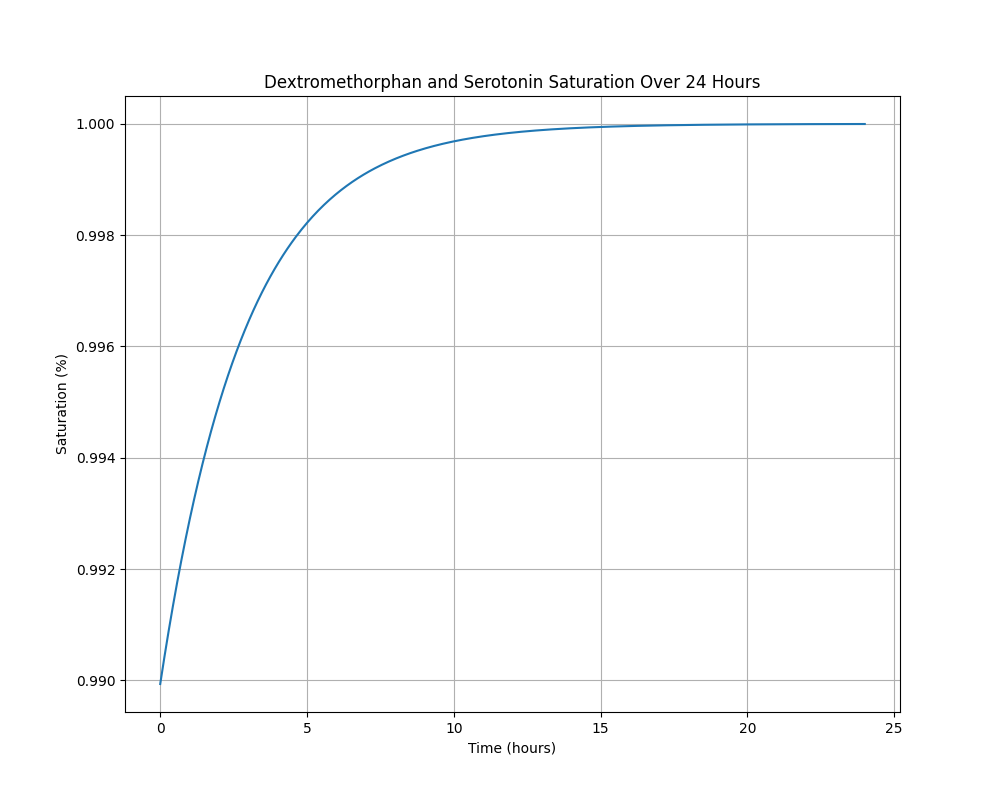
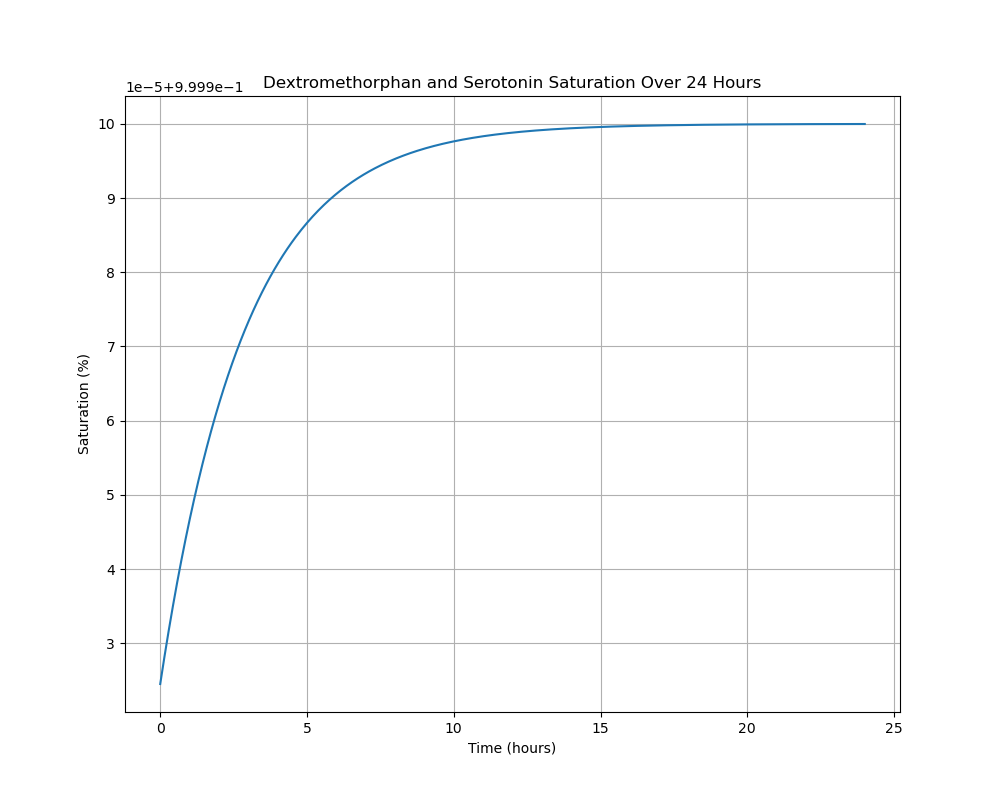
beginning accumulation

diff --git a/pbl2/BrainB.py b/pbl2/BrainB.py
@@ -56,6 +56,7 @@ def MAO_enzyme_reaction(t, y):
 t_span = (0, 24) #see longer term equations in action
 t_eval = np.linspace(t_span[0], t_span[1], 500)
 
+Deg_Ser = []
 if c.case == 0:
     sol = solve_ivp(MAO_enzyme_reaction, t_span, initial_conditions, t_eval=t_eval, method="Radau")
     plt.figure(figsize=(10,8))
@@ -67,6 +68,7 @@ if c.case == 0:
     plt.grid(True)
     plt.savefig("pbl2/graphs/brainB_case0.png")
     S_star_8 = sol.y[1,-1]  #total amount of S_star created per day
+    Deg_Ser = sol.y[1]
     print("S*: ",S_star_8)
 
 else:
@@ -87,11 +89,16 @@ else:
     plt.ylabel('Concentration (mmol/cell)')
     plt.legend()
     plt.grid(True)
+    Deg_Ser = sol.y[1]
 
     plt.tight_layout()
     filepath = "pbl2/graphs/brainB_case" + str(c.case) + ".png"
     plt.savefig(filepath)
+
+
     S_star_8 = sol.y[1,-1]  #total amount of S_star created per day
     print("S*: ",S_star_8)
+print(Deg_Ser)
 
-
+print("Max value of Deg_Ser:", np.max(Deg_Ser))
+print("Min value of Deg_Ser:", np.min(Deg_Ser))

diff --git a/pbl2/accumulation.py b/pbl2/accumulation.py
@@ -1,0 +1,15 @@
+import numpy as np
+from scipy.integrate import solve_ivp
+import matplotlib.pyplot as plt
+import constants as c
+import BrainA as A
+import BrainB as B
+
+
+t = np.linspace(0, 24, 24)
+
+for time in t:  
+    S_9 = B.sol.y[1] - B.sol.y[0]
+
+print(S_9)
+

diff --git a/pbl2/constants.py b/pbl2/constants.py
@@ -1,6 +1,6 @@
 import numpy as np
 
-case = 7
+case = 3
 #Case 0: No CSY, No MAOI, MDD
 #Case 1: No CSY, Normal MAOI, MDD
 #Case 2: No CSY, High Dose of MAOI, MDD
